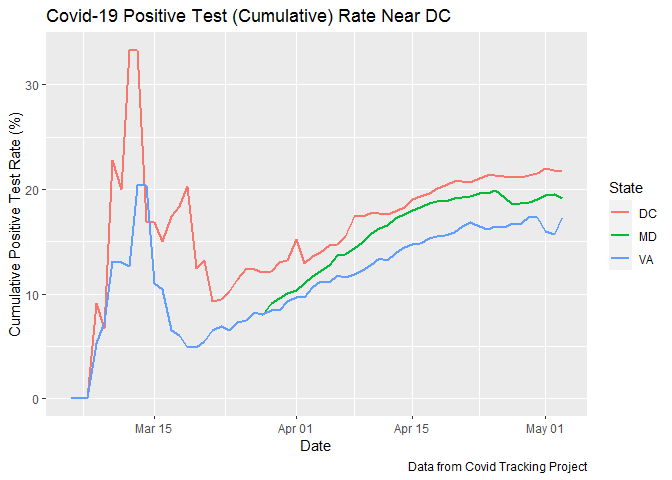
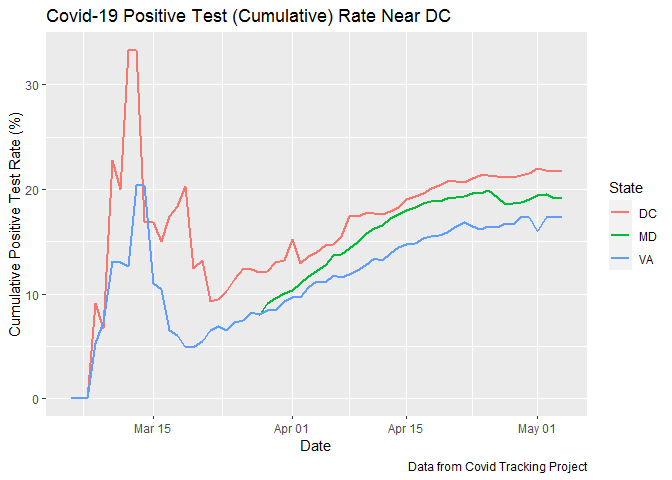
Morning 5 May update

diff --git a/Markdown/Pos_Test_Rate.md b/Markdown/Pos_Test_Rate.md
@@ -1,7 +1,7 @@
 Positive Covid-19 Test Rate Increases Around DC
 ================
 
-2020-05-04 10:44:58
+2020-05-05 10:26:06
 
 The number of Covid-19 tests conducted in the DC area increased
 considerably through the first part of April and has generally plateaued
@@ -20,14 +20,14 @@ Despite plateauing or decreasing numbers of tests in the area, the
 cumulative positive test rate has increased over time since the rates
 spiked in mid-March, when fewer Covid-19 tests were being conducted.
 Right now, the cumulate positive rate in DC is 21.7%, the rate in
-Maryland is 19.2%, and the rate in Virginia is 17.3%.
+Maryland is 19.3%, and the rate in Virginia is 17.4%.
 
 ![](Pos_Test_Rate_files/figure-gfm/pos_rate_cumulative-1.png)<!-- -->
 
 The recent increases in positive test rates are more pronounced when
 displayed as recent, rather than cumulative, averages. The average
-positive test rate between 2020-05-01 and 2020-05-03 was 22.9% in DC,
-20.2% in Maryland, and 17.1% in Virginia.  
+positive test rate between 2020-05-02 and 2020-05-04 was 19.2% in DC,
+18.3% in Maryland, and 39% in Virginia.  
 \` ![](Pos_Test_Rate_files/figure-gfm/rolling_pos_rate-1.png)<!-- -->
 
 New York state has generally had the highest testing rate of any state,
